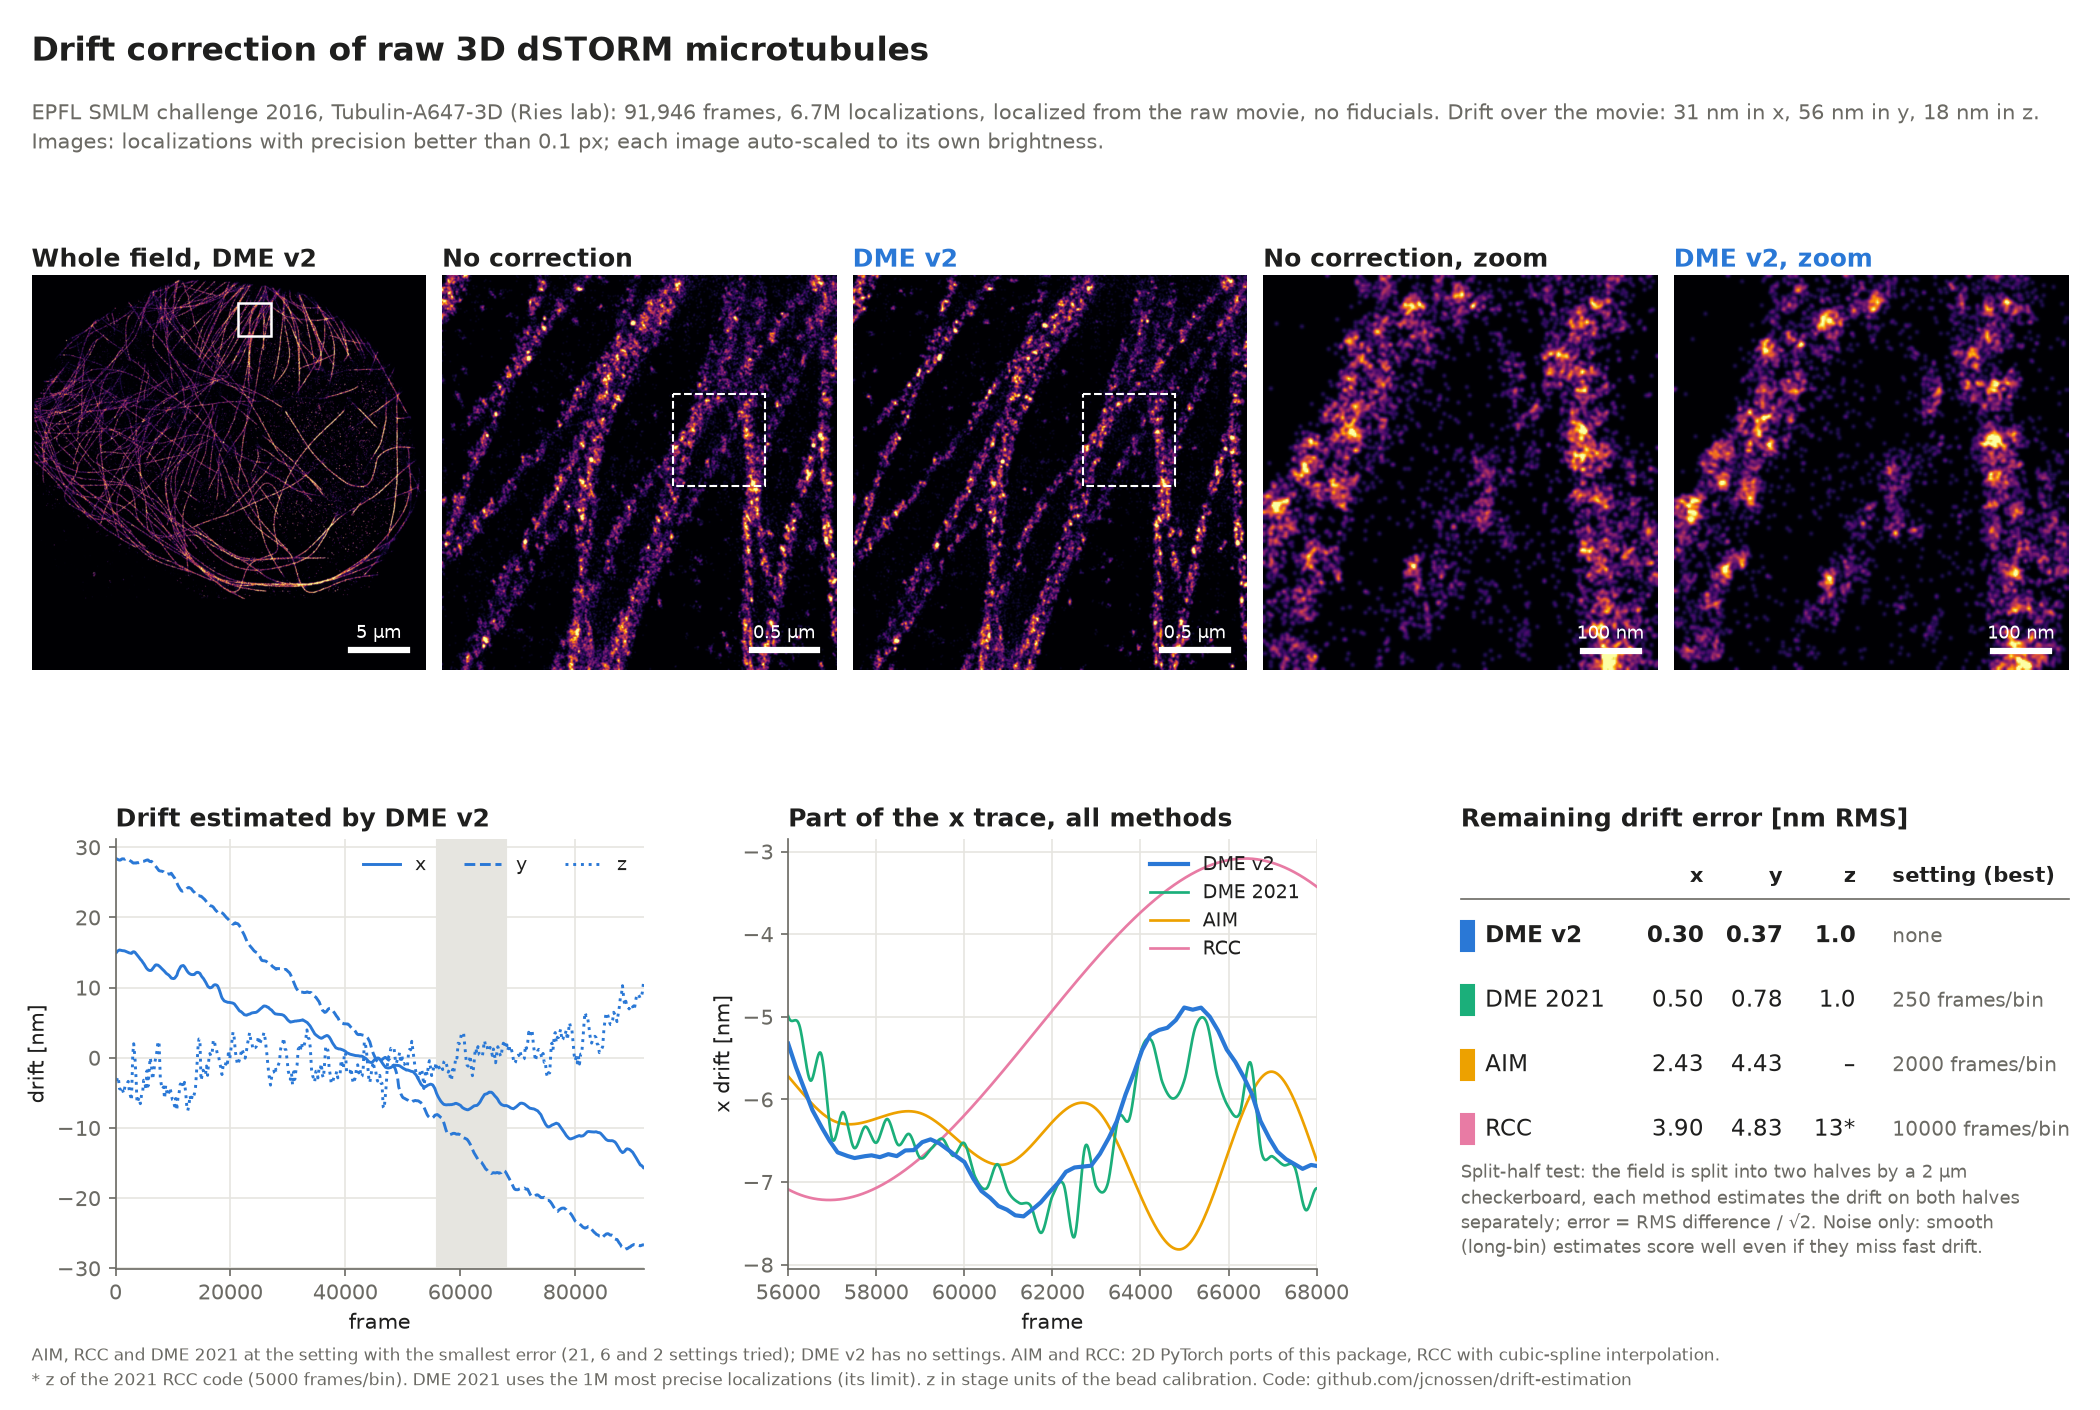
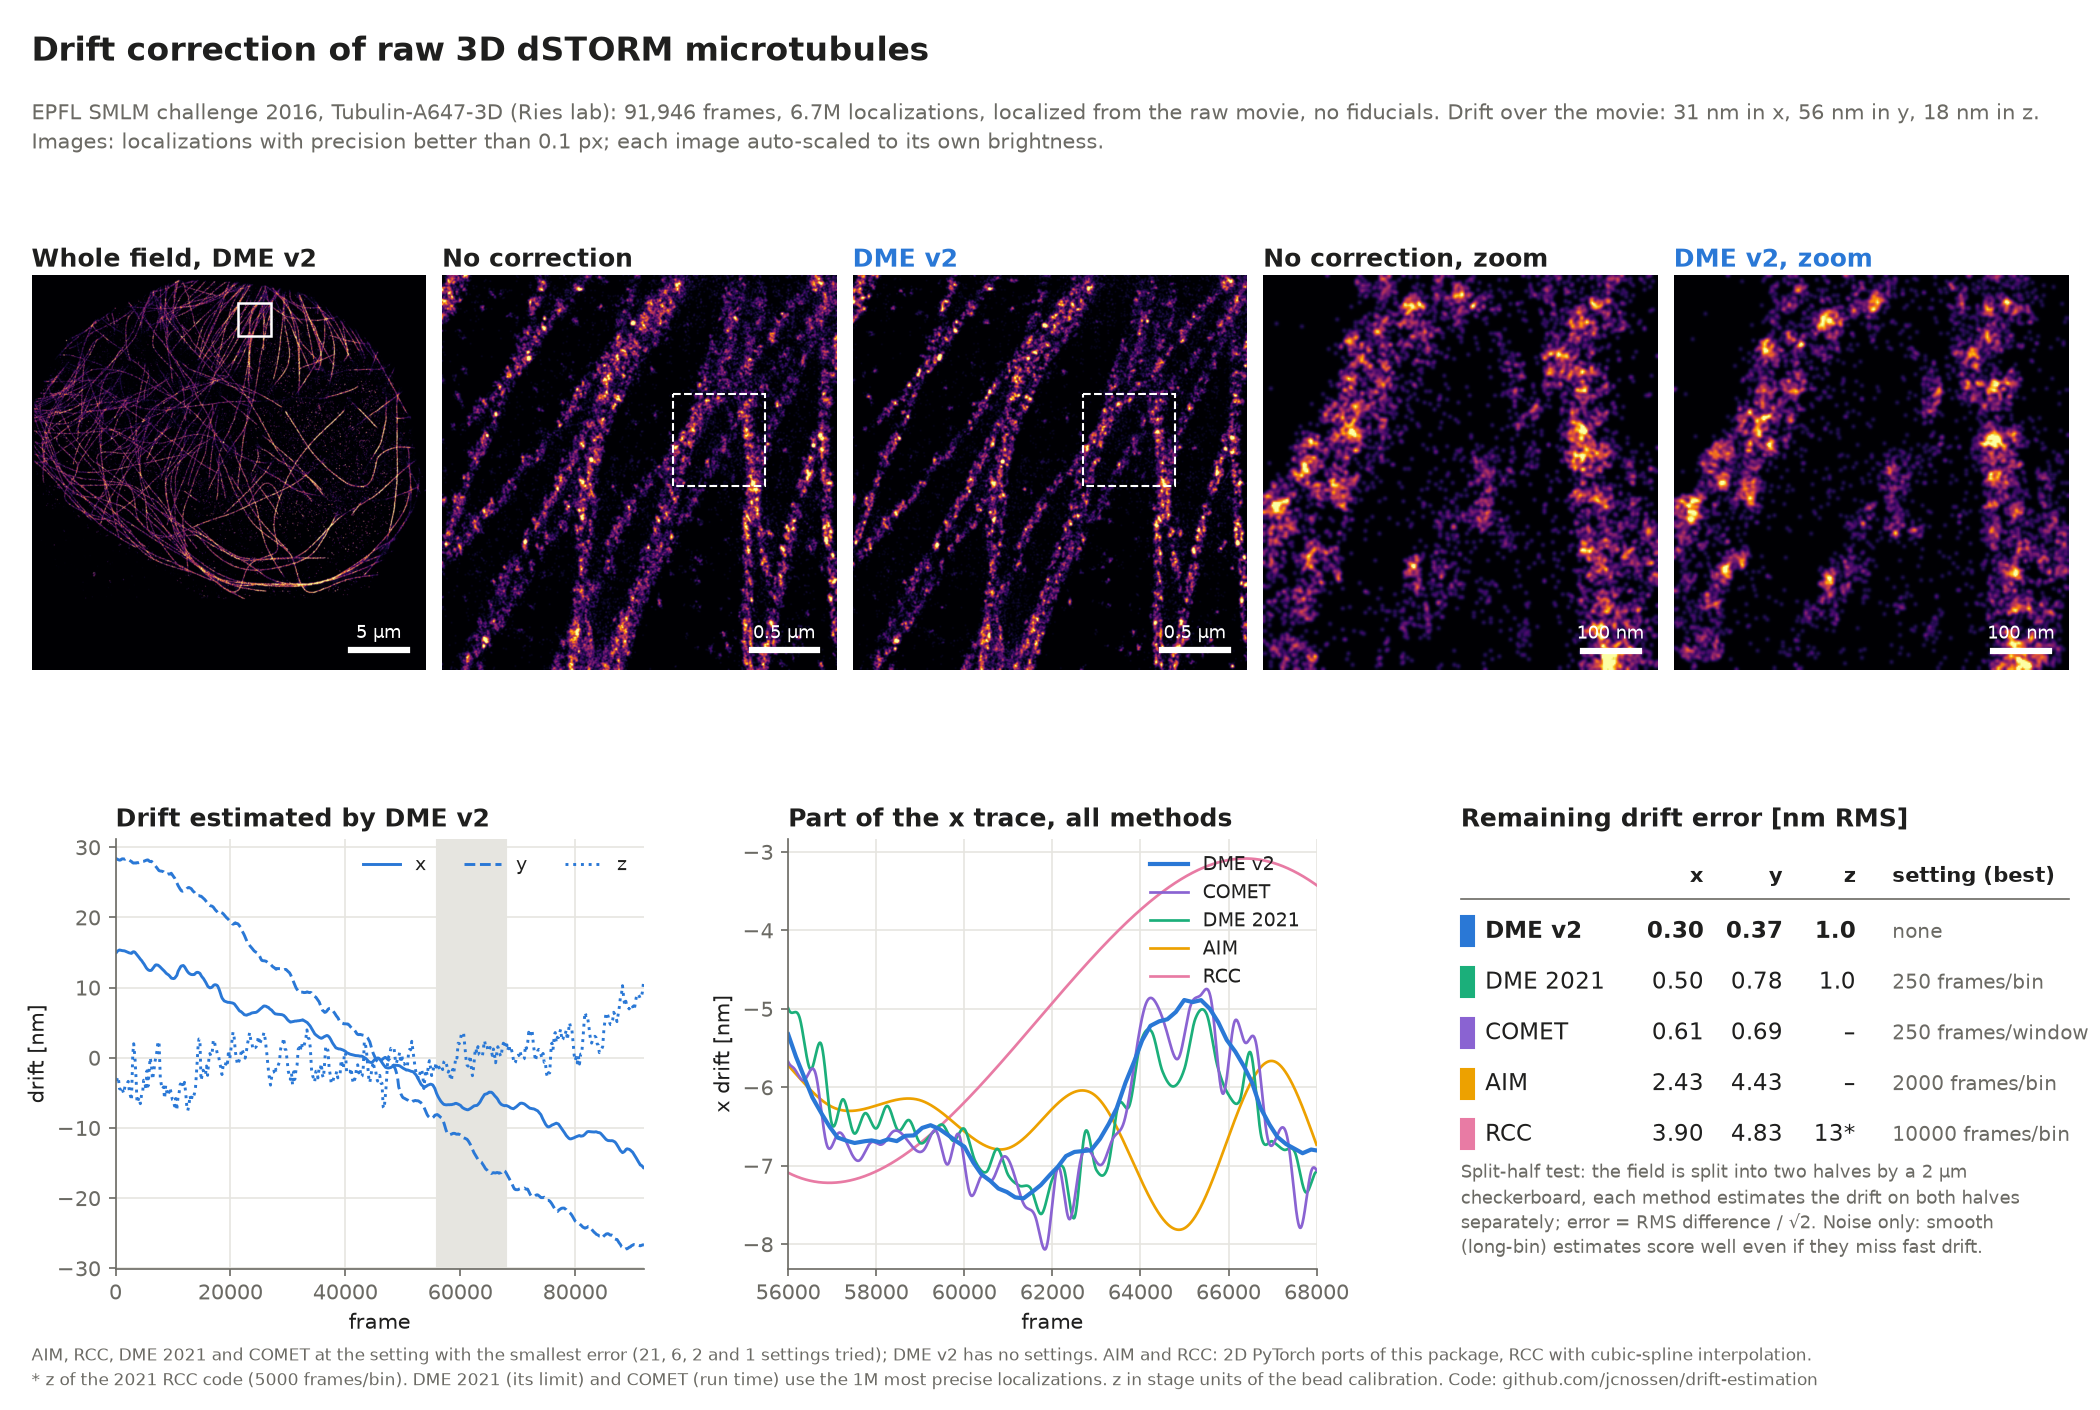
EPFL tubulin: COMET added to the table and figure (first of six window lengths); new ROI, RCC with cubic spline
Claude-Session: https://claude.ai/code/session_01MCeZ1s93otYoT1FsjtimZY

diff --git a/benchmark/realdata_epfl/tub_figure.py b/benchmark/realdata_epfl/tub_figure.py
@@ -13,13 +13,13 @@ from scipy.ndimage import gaussian_filter
 D = os.path.join(os.environ.get('EPFL_DATA', '/mnt/data/SMLM_challenge'), 'Tubulin-A647-3D')
 U = np.array([117.0, 118.2, 1000.0])
 INK, MUTED, GRID = '#1f1f1e', '#6b6a64', '#e6e5e0'
-COL = {'dme_v2': '#2a78d6', 'dme2021': '#1baf7a', 'aim': '#eda100', 'rcc': '#e87ba4'}
+COL = {'dme_v2': '#2a78d6', 'dme2021': '#1baf7a', 'aim': '#eda100', 'rcc': '#e87ba4', 'comet': '#8a63d2'}
 R = {}
-for m in ('new', 'legacy'):
+for m in ('new', 'legacy', 'comet'):
     z = np.load(f'{D}/drift/tub_{m}.npz')
     R.update({k: z[k] for k in z.files})
 KEY = {'dme_v2': 'dme_v2_3d', 'dme2021': 'dme2021_3d_250', 'aim': 'aim_2000_0.1', 'rcc': 'rccw_10000'}
-NAME = {'dme_v2': 'DME v2', 'dme2021': 'DME 2021', 'aim': 'AIM', 'rcc': 'RCC'}
+NAME = {'dme_v2': 'DME v2', 'dme2021': 'DME 2021', 'aim': 'AIM', 'rcc': 'RCC', 'comet': 'COMET'}
 
 
 from scipy.interpolate import CubicSpline
@@ -47,6 +47,13 @@ for fb, e in rs.items():
     print('RCC cubic', fb, e.round(2), 'linear', split(f'rccw_{fb}').round(2), flush=True)
 RFB = min(rs, key=lambda fb: np.sqrt(np.mean(rs[fb] ** 2)))
 KEY['rcc'] = f'rccs_{RFB}'
+# COMET: best of the finished settings (window length in frames, 10 nm kernel)
+cs = {int(k.split('_')[1]): split(k[:-4]) for k in R if k.startswith('comet_') and k.endswith('_all')
+      and k[:-4] + '_h0' in R and k[:-4] + '_h1' in R}
+CFB = min(cs, key=lambda fb: np.sqrt(np.mean(cs[fb] ** 2)))
+KEY['comet'] = f'comet_{CFB}_10'
+for fb, e in sorted(cs.items()):
+    print('COMET', fb, e.round(2), flush=True)
 a = pd.read_csv(f'{D}/locs/Tubulin-A647-3D_locs.csv')
 a = a[(a['flags'] == 0) & (a.crlb_x < 0.1) & (a.crlb_y < 0.1)]
 P = np.stack([a.x * U[0], a.y * U[1]], 1)
@@ -128,7 +135,7 @@ ax1.set_xlabel('frame'); ax1.set_ylabel('drift [nm]'); ax1.set_xlim(0, F)
 ax1.set_title('Drift estimated by DME v2', fontsize=12, fontweight='bold', loc='left')
 ax1.legend(frameon=False, fontsize=9, ncol=3, loc='upper right')
 ax2 = fig.add_subplot(gbot[0, 1])
-for m in ('rcc', 'aim', 'dme2021', 'dme_v2'):
+for m in ('rcc', 'aim', 'dme2021', 'comet', 'dme_v2'):
     ax2.plot(t[T0:T1], nm(KEY[m] + '_all')[T0:T1, 0], color=COL[m], lw=2.0 if m == 'dme_v2' else 1.3, label=NAME[m])
 ax2.set_xlim(T0, T1); ax2.set_xlabel('frame'); ax2.set_ylabel('x drift [nm]')
 ax2.set_title('Part of the x trace, all methods', fontsize=12, fontweight='bold', loc='left')
@@ -143,6 +150,7 @@ for ax in (ax1, ax2):
 ax3 = fig.add_subplot(gbot[0, 2]); ax3.axis('off')
 ax3.set_title('Remaining drift error [nm RMS]', fontsize=12, fontweight='bold', loc='left')
 rows = [('dme_v2', 'DME v2', 'dme_v2_3d', 'none'), ('dme2021', 'DME 2021', 'dme2021_3d_250', '250 frames/bin'),
+        ('comet', 'COMET', KEY['comet'], f'{CFB} frames/window'),
         ('aim', 'AIM', 'aim_2000_0.1', '2000 frames/bin'), ('rcc', 'RCC', KEY['rcc'], f'{RFB} frames/bin')]
 zrcc = split('rccorig3d_5000')[2]
 cols = [0.0, 0.40, 0.53, 0.65, 0.79]
@@ -153,7 +161,7 @@ ax3.text(cols[4] - 0.08, 0.90, 'setting (best)', fontweight='bold', transform=ax
 ax3.plot([0, 1], [0.86, 0.86], color=MUTED, lw=0.8, transform=ax3.transAxes, clip_on=False)
 for r, (m, name, key, setting) in enumerate(rows):
     e = split(key)
-    y = 0.76 - r * 0.15
+    y = 0.77 - r * 0.118
     fw = 'bold' if m == 'dme_v2' else 'normal'
     ax3.add_patch(Rectangle((0, y - 0.02), 0.022, 0.07, color=COL[m], transform=ax3.transAxes, clip_on=False))
     ax3.text(0.04, y, name, fontweight=fw, transform=ax3.transAxes, fontsize=11)
@@ -166,9 +174,9 @@ ax3.text(0, 0.02, 'Split-half test: the field is split into two halves by a 2 µ
          'the drift on both halves\nseparately; error = RMS difference / √2. Noise only: smooth\n(long-bin) estimates '
          'score well even if they miss fast drift.', fontsize=8.6, color=MUTED, transform=ax3.transAxes, va='bottom',
          linespacing=1.4)
-fig.text(0.015, 0.012, 'AIM, RCC and DME 2021 at the setting with the smallest error (21, 6 and 2 settings tried); '
+fig.text(0.015, 0.012, f'AIM, RCC, DME 2021 and COMET at the setting with the smallest error (21, 6, 2 and {len(cs)} settings tried); '
          'DME v2 has no settings. AIM and RCC: 2D PyTorch ports of this package, RCC with cubic-spline interpolation.\n'
-         '* z of the 2021 RCC code (5000 frames/bin). DME 2021 uses the 1M most precise localizations (its limit). '
+         '* z of the 2021 RCC code (5000 frames/bin). DME 2021 (its limit) and COMET (run time) use the 1M most precise localizations. '
          'z in stage units of the bead calibration. Code: github.com/jcnossen/drift-estimation', fontsize=8.2,
          color=MUTED, ha='left', va='bottom', linespacing=1.45)
 fig.savefig(f'{D}/drift/tub_figure.png', dpi=150, facecolor='white')

diff --git a/docs/comparison.md b/docs/comparison.md
@@ -103,6 +103,7 @@ Tubulin:
 | **DME v2** | **0.30** | **0.37** | **1.0** | 120 | – |
 | DME 2021 (3D) | 0.50 | 0.78 | 1.0 | 49 | 250 frames per bin (2), best 1M localizations |
 | DME 2021 (2D) | 0.44 | 1.29 | – | 12 | 1000 frames per bin (5), best 1M localizations |
+| COMET (2D) | 0.61 | 0.69 | – | 490 | 250-frame windows, 10 nm (1 so far), best 1M localizations |
 | AIM (2D) | 2.4 | 4.4 | – | 1 | 2000 frames per bin, 0.1 px (21) |
 | RCC (2D) | 3.9 | 4.8 | – | <1 | 10000 frames per bin (6) |
 | RCC 2021 code (3D) | 4.5 | 8.3 | 13 | 38 | 5000 frames per bin (3) |
@@ -117,7 +118,9 @@ Nuclear pores:
 | AIM (2D) | 2.0 | 2.7 | – | 4000 frames per bin, 0.1 px (18) |
 | RCC 2021 code (3D) | 4.3 | 3.4 | 14 | 10000 frames per bin (3) |
 
-Notes: AIM here is the 2D PyTorch port in this package. "RCC (2D)" is `rcc_torch` with `maxdrift_px=10`, the peak search
+Notes: COMET was run on the 1M most precise localizations of each subset: on a full half (3.4M) one run did not
+finish in 40 minutes and used 66 GB of RAM; only one of its six window lengths has finished so far. AIM here is the
+2D PyTorch port in this package. "RCC (2D)" is `rcc_torch` with `maxdrift_px=10`, the peak search
 window of the 2021 RCC code; with its default (whole image) it fails on these sparse dSTORM time bins. For tubulin the
 RCC bins are interpolated with a cubic spline (3.3 / 4.5 nm with linear interpolation); for the pores linearly. The pixel size
 is not given with the data; 117.0 / 118.2 nm (tubulin) and 134.9 / 142.0 nm (pores) per pixel in x / y were taken

diff --git a/README.md b/README.md
@@ -23,7 +23,7 @@ On simulated DNA-PAINT data DME v2 is 1.6–2.1× more precise than COMET, the n
 than AIM, RCC and the 2021 DME code, although each of those was run at its best settings, picked with the true drift
 (DME v2 has no settings). On a real DNA-PAINT nanoruler (the dataset in `example_data/`) it is also the most precise.
 On raw 3D dSTORM data with real drift (EPFL challenge microtubules, 6.7M localizations) its split-half error is
-0.3 nm in x and y and 1 nm in z, against 0.5–1.3 nm for the 2021 code and 2–4 nm for AIM and RCC at their best settings.
+0.3 nm in x and y and 1 nm in z, against 0.5–1.3 nm for the 2021 code, 0.6–0.7 nm for COMET and 2–5 nm for AIM and RCC at their best settings.
 It is slower than AIM and RCC: 3 s for 10k localizations, 20 s for 1M, 3 minutes for 10M on an RTX 3090.
 Details, tables and the settings searched: [docs/comparison.md](docs/comparison.md).
 
